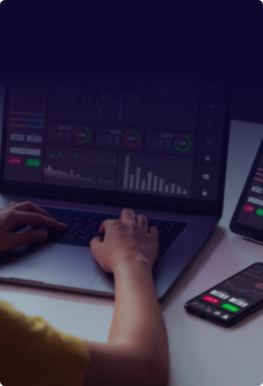
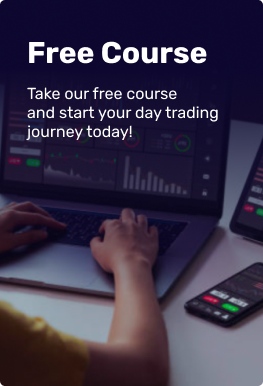
adaptation fix

Changed region(s): [[0.0913, 0.2176, 0.8517, 0.3731], [0.0913, 0.0933, 0.7909, 0.1865]]

diff --git a/src/index.html b/src/index.html
@@ -300,31 +300,34 @@
           </p>
           <div class="promo__inner row">
             <a href="#" class="promo__item col-12 col-md-4">
-              <img
-                src="./images/promo/free-course_mob.png"
-                srcset="./images/promo/free-course_mob.png 251w,
-                ./images/promo/Free-course.png 250w"
-                alt="Free Course"
-                class="promo__image"
-              >
+              <picture>
+                <source media="(min-width: 768px)" srcset="./images/promo/free-course.png">
+                <img
+                  src="./images/promo/free-course_mob.png"
+                  alt="Free Course"
+                  class="promo__image"
+                >
+              </picture>
             </a>
             <a href="#" class="promo__item col-12 col-md-4">
-              <img
-                src="./images/promo/trading_challenge_mob.png"
-                srcset="./images/promo/trading_challenge_mob.png 251w,
-                ./images/promo/trading-challenge.png 250w"
-                alt="Trading Challenge"
-                class="promo__image"
-              >
+              <picture>
+                <source media="(min-width: 768px)" srcset="./images/promo/trading-challenge.png">
+                <img
+                  src="./images/promo/free-course_mob.png"
+                  alt="Trading Challenge"
+                  class="promo__image"
+                >
+              </picture>
             </a>
             <a href="#" class="promo__item col-12 col-md-4">
-              <img
-                src="./images/promo/tradenet-stock_mob.png"
-                srcset="./images/promo/tradenet-stock_mob.png 251w,
-                ./images/promo/stock-talks.png 250w"
-                alt="Tradenet Stock Talks"
-                class="promo__image"
-              >
+              <picture>
+                <source media="(min-width: 768px)" srcset="./images/promo/stock-talks.png">
+                <img
+                  src="./images/promo/tradenet-stock_mob.png"
+                  alt="Tradenet Stock Talks"
+                  class="promo__image"
+                >
+              </picture>
             </a>
           </div>
         </div>

diff --git a/src/styles/blocks/promo.scss b/src/styles/blocks/promo.scss
@@ -1,5 +1,7 @@
 .promo {
+  margin: 0 auto;
   padding: 4rem 3.5rem;
+  max-width: 800px;
   background: #fff;
   box-shadow: 0 4px 90px rgba(0, 0, 0, 0.25);
   border-radius: 10px;
@@ -13,10 +15,11 @@
   }
 
   &__text {
-    margin: 0 0 4rem;
+    margin: 0 0 2rem;
     max-width: 500px;
     font-size: 2.4rem;
     text-align: left;
+    line-height: 3rem;
   }
 
   &__item {
@@ -31,5 +34,20 @@
 
   &.hidden {
     display: none;
+  }
+}
+
+@media (min-width: 768px) {
+  .promo {
+    &__title {
+      text-align: center;
+      margin-bottom: 2rem;
+    }
+
+    &__text {
+      text-align: center;
+      margin: 0 auto 4rem;
+      max-width: 400px;
+    }
   }
 }

diff --git a/src/styles/blocks/advantages.scss b/src/styles/blocks/advantages.scss
@@ -105,14 +105,14 @@
         }
       }
     }
-  }
 
-  &__plus {
-    position: relative;
-    right: 5px;
-  }
+    &__plus {
+      position: relative;
+      right: 5px;
+    }
 
-  &__line {
-    display: none;
+    &__line {
+      display: none;
+    }
   }
 }
